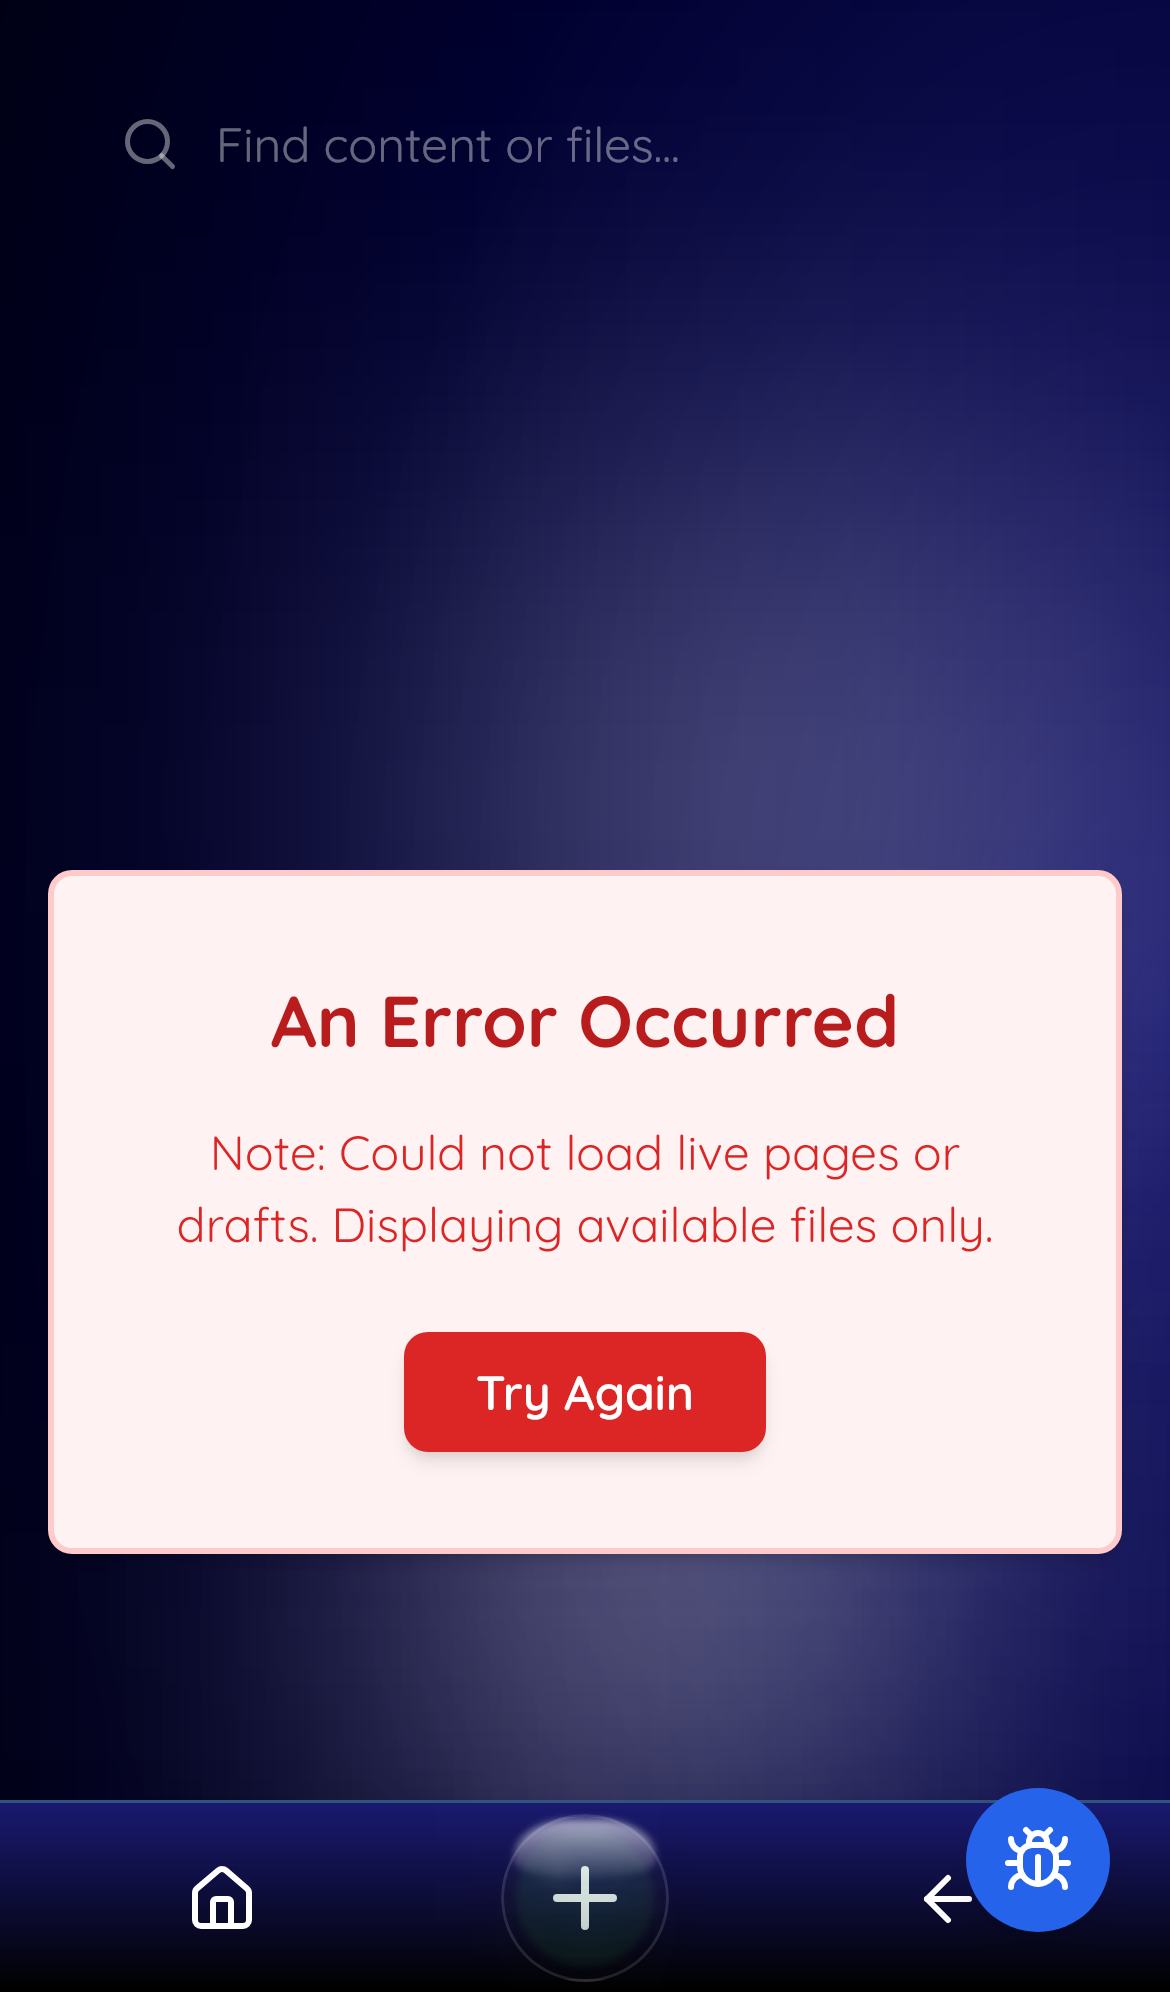
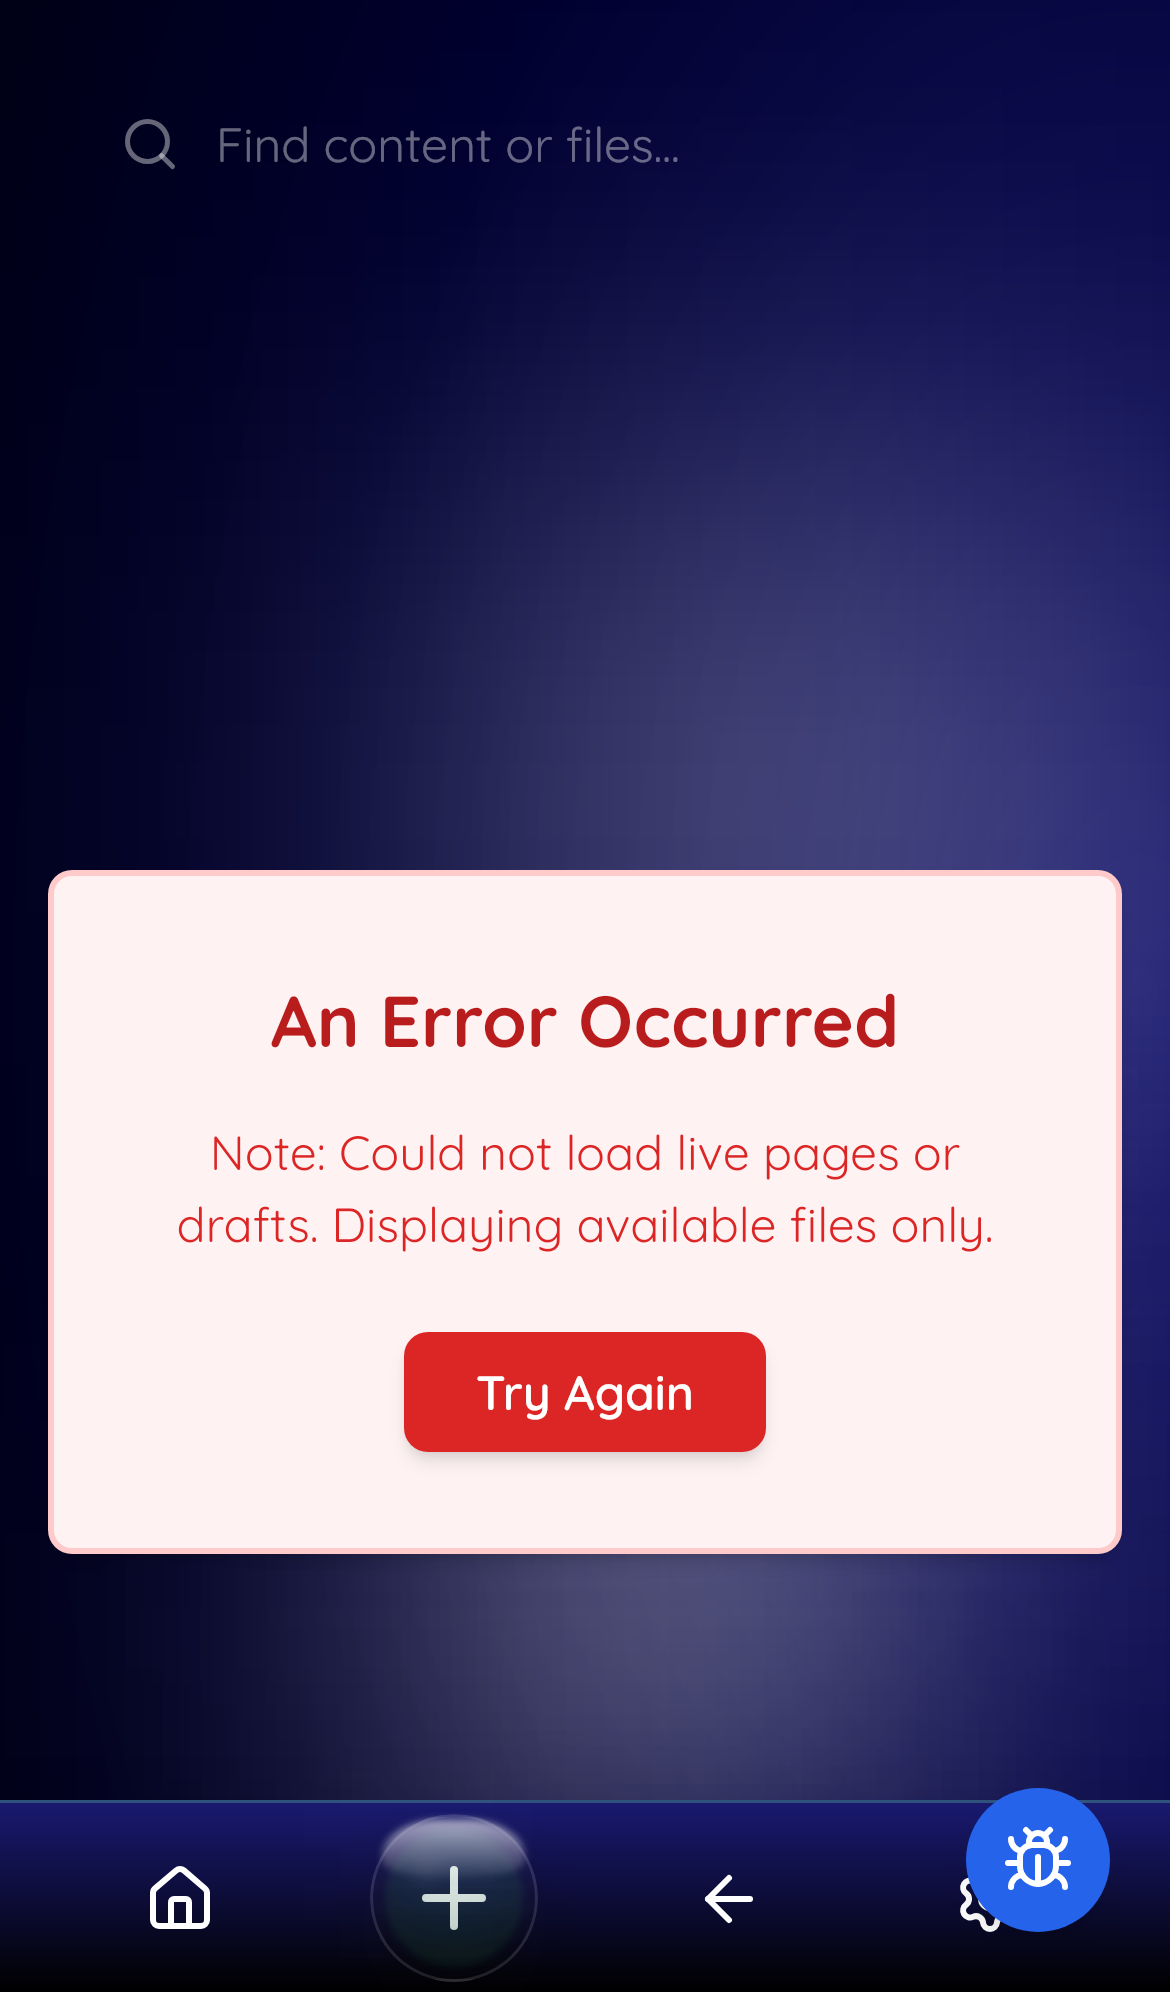
Sync updates from easy-seo editor directory

diff --git a/tests/verify-no-settings-button.spec.js b/tests/verify-no-settings-button.spec.js
@@ -1,8 +1,8 @@
 
 import { test, expect } from '@playwright/test';
 
-test.describe('File Explorer Page', () => {
-  test('should display the settings button in the action bar', async ({ page }) => {
+test.describe('Content Editor Page', () => {
+  test('should not display the settings button in the action bar', async ({ page }) => {
     // Start the server and navigate to the page
     await page.goto('http://localhost:5173');
 
@@ -28,17 +28,17 @@ test.describe('File Explorer Page', () => {
       });
     });
 
-    // Navigate to the file explorer page
-    await page.goto('http://localhost:5173/explorer');
+    // Navigate to the content editor page
+    await page.goto('http://localhost:5173/editor/mock_page');
 
     // Wait for the page to load and the action bar to be visible
-    await page.waitForSelector('[data-testid="explorer-action-bar"]');
+    await page.waitForSelector('[data-testid="editor-action-bar"]');
 
     // Take a screenshot to verify the UI
-    await page.screenshot({ path: 'verification/screenshot.png' });
+    await page.screenshot({ path: 'verification/no-settings-button.png' });
 
-    // Check if the settings button is visible
+    // Check that the settings button is not visible
     const settingsButton = page.locator('[data-testid="settings-button"]');
-    await expect(settingsButton).toBeVisible();
+    await expect(settingsButton).not.toBeVisible();
   });
 });

diff --git a/src/components/BottomActionBar.jsx b/src/components/BottomActionBar.jsx
@@ -1,7 +1,7 @@
 import { h } from 'preact';
 import { memo } from 'preact/compat';
 import { route } from 'preact-router';
-import { Home, Plus, UploadCloud, CheckCircle, AlertCircle, RefreshCw, Eye, Pencil, LifeBuoy, ArrowLeft, Undo, Redo, Settings } from 'lucide-preact';
+import { Home, Plus, UploadCloud, CheckCircle, AlertCircle, RefreshCw, Eye, Pencil, LifeBuoy, ArrowLeft, Undo, Redo } from 'lucide-preact';
 import './BottomActionBar.css';
 import { getPageScoreColor } from '../lib/pageScoring';
 
@@ -73,7 +73,7 @@ const BottomActionBar = memo((props) => {
   const isInPreviewMode = viewMode === 'livePreview';
 
   return (
-    <footer className="bottom-action-bar" role="toolbar" aria-label="Editor actions" data-testid="bottom-action-bar">
+    <footer className="bottom-action-bar" role="toolbar" aria-label="Editor actions" data-testid="editor-action-bar">
       <div className="flex items-center gap-2">
         {showFileNav ? (
           <>
@@ -146,12 +146,6 @@ const BottomActionBar = memo((props) => {
       </div>
 
       <div className="flex items-center gap-2">
-        {showFileNav && (
-            <button type="button" onClick={onSettingsClick} className="bar-btn" aria-label="Settings" data-testid="settings-button">
-                <Settings size={28} />
-            </button>
-        )}
-
         {onSync && (
           <button
             type="button"

diff --git a/src/components/BottomToolbar.jsx b/src/components/BottomToolbar.jsx
@@ -1,5 +1,5 @@
 import { route } from 'preact-router';
-import { Home, ArrowLeft, Plus } from 'lucide-preact';
+import { Home, ArrowLeft, Plus, Settings } from 'lucide-preact';
 import LiquidGlassButton from './LiquidGlassButton';
 import { useUI } from '../contexts/UIContext';
 
@@ -19,6 +19,7 @@ export function BottomToolbar() {
         WebkitBackdropFilter: 'blur(12px)',
         backgroundColor: 'rgba(0, 0, 10, 0.7)',
       }}
+      data-testid="explorer-action-bar"
     >
       <div className="flex items-center justify-around h-full px-4 max-w-screen-xl mx-auto">
         <button
@@ -39,6 +40,15 @@ export function BottomToolbar() {
           aria-label="Back"
         >
           <ArrowLeft size={24} />
+        </button>
+
+        <button
+          onClick={() => route('/settings')}
+          className="p-3 text-white transition-transform duration-150 ease-in-out rounded-full hover:bg-white/10 active:scale-90"
+          aria-label="Settings"
+          data-testid="settings-button"
+        >
+          <Settings size={24} />
         </button>
       </div>
     </footer>

diff --git a/src/pages/FileExplorerPage.jsx b/src/pages/FileExplorerPage.jsx
@@ -194,7 +194,6 @@ import pageData from '${dataPath}';
         onGoBack={handleGoBack}
         onGoHome={handleGoHome}
         onAdd={() => setCreateOpen(true)}
-        onSettingsClick={() => route('/settings')}
       />
     </div>
   );
